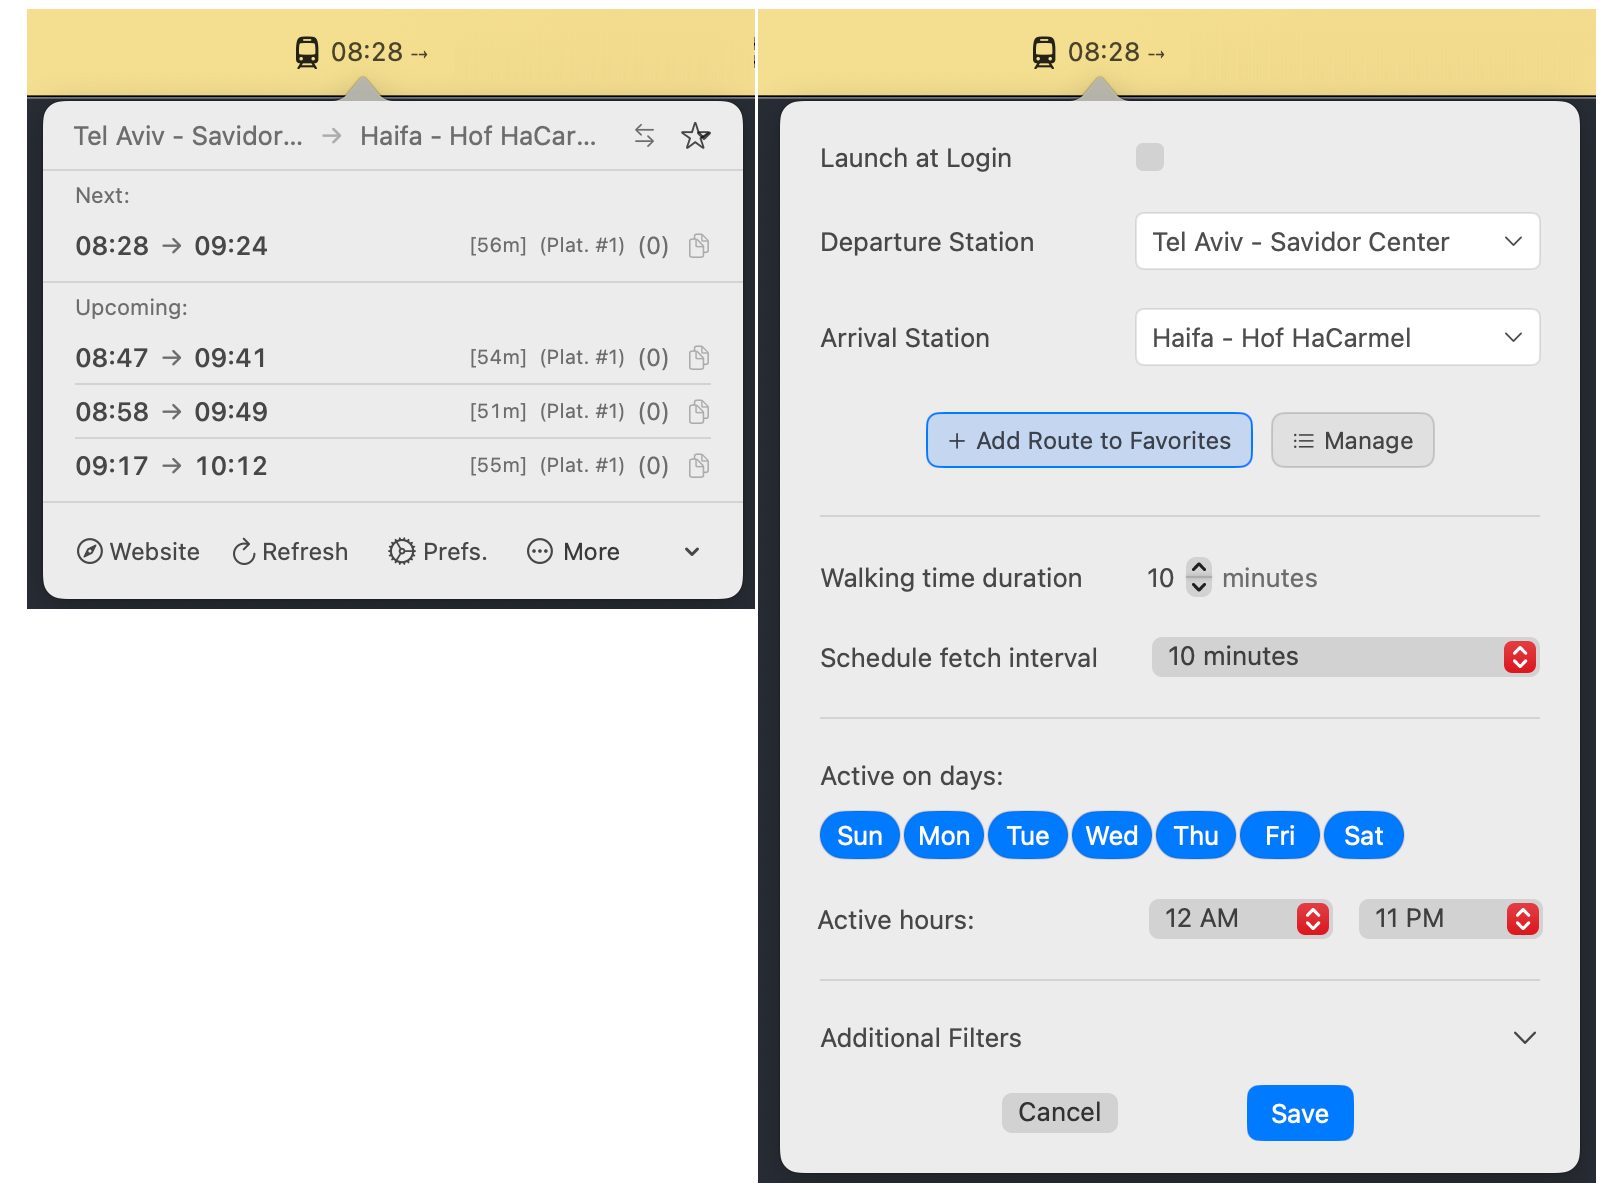
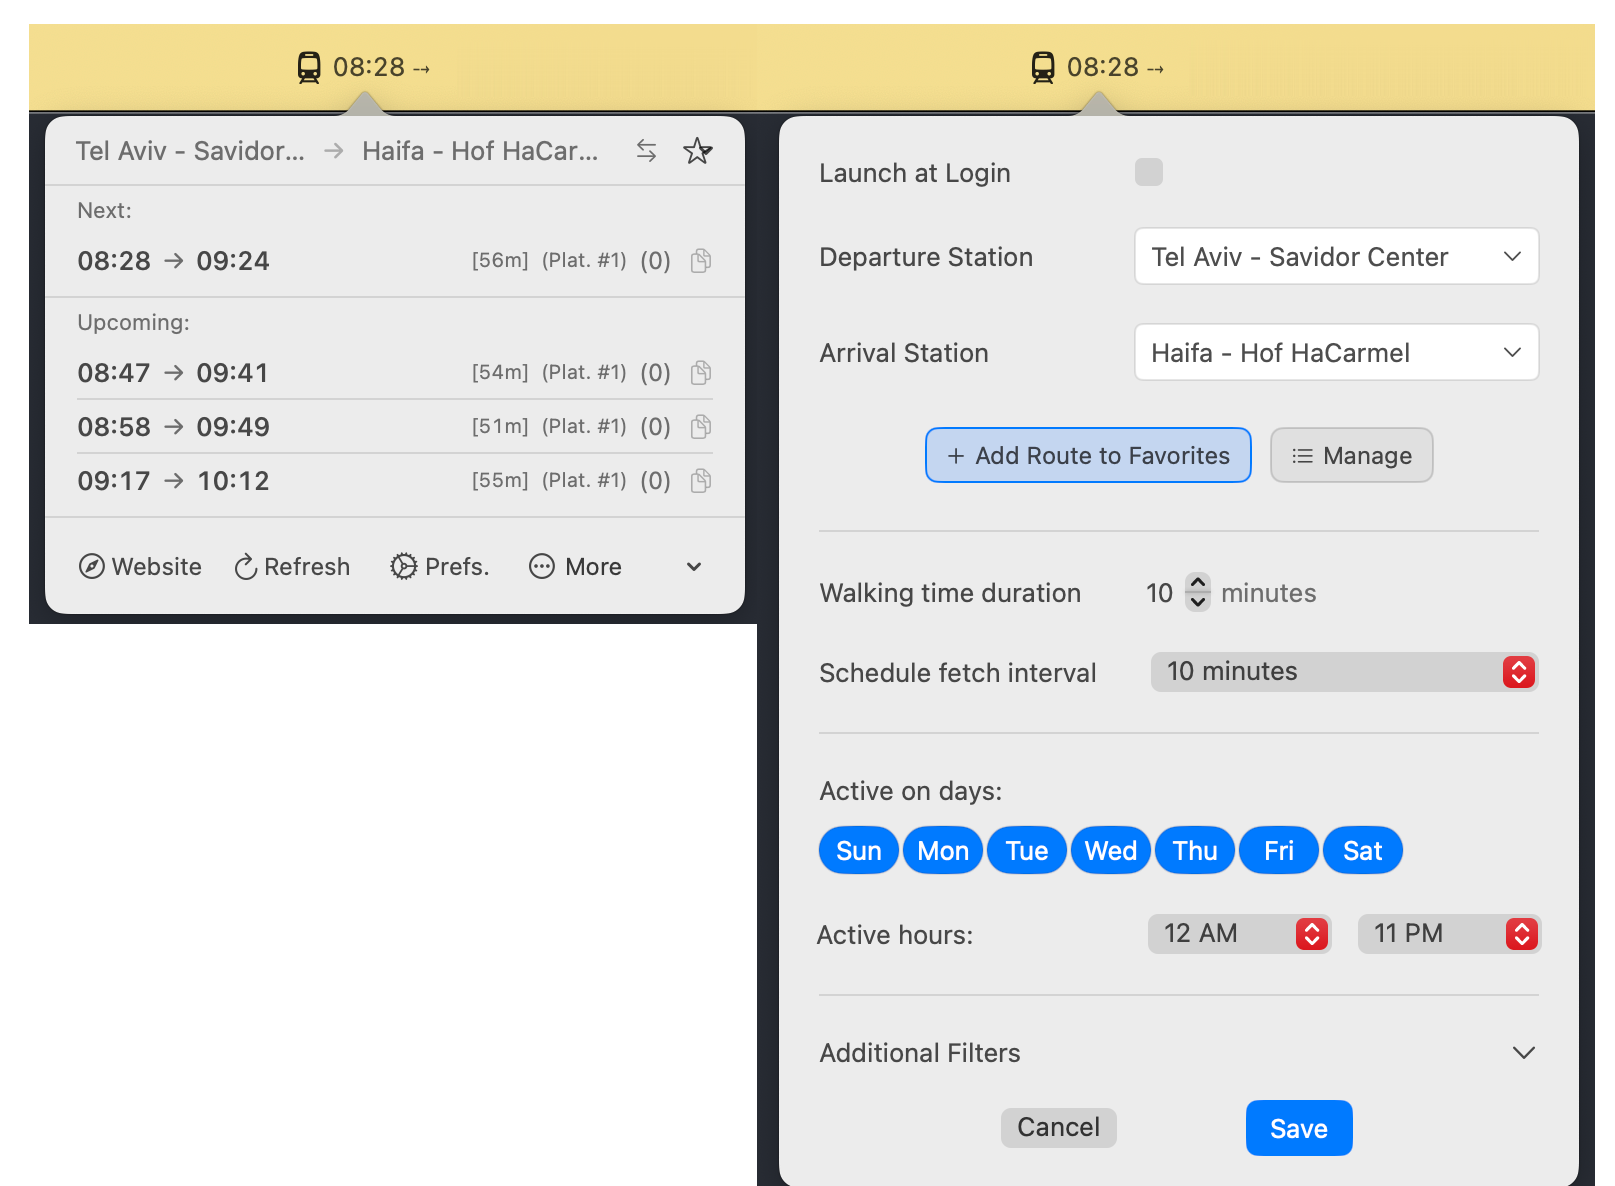
fix: platform display (#21)

diff --git a/ILrail-bar/NetworkManager.swift b/ILrail-bar/NetworkManager.swift
@@ -200,8 +200,11 @@ class NetworkManager {
                     if let firstTrainData = travel.trains.first {
                         let trainNumberString = String(describing: firstTrainData.trainNumber)
                         let allTrainNumbers = travel.trains.map { String(describing: $0.trainNumber) }
-                        let allPlatforms = travel.trains.compactMap { $0.platform }
-                        
+
+                        // For the platforms list, always use originPlatform values for consistent display
+                        let allPlatforms = travel.trains.map { String($0.originPlatform) }
+                        let platformToShow = String(firstTrainData.originPlatform)
+
                         // We want to show the first train of each travel, with the overall journey time
                         // Instead of checking that both stations match, we'll check the overall journey details
                         // This handles train changes correctly
@@ -209,7 +212,7 @@ class NetworkManager {
                             trainNumber: trainNumberString,
                             departureTime: firstTrainData.departureTime,
                             arrivalTime: travel.trains.last?.arrivalTime ?? firstTrainData.arrivalTime, // Use the final arrival time for the complete journey
-                            platform: firstTrainData.platform ?? "",
+                            platform: platformToShow,
                             fromStationName: firstTrainData.fromStationName ?? preferences.fromStation,
                             toStationName: travel.trains.last?.toStationName ?? firstTrainData.toStationName ?? preferences.toStation,
                             trainChanges: trainChanges,

diff --git a/CHANGELOG.md b/CHANGELOG.md
@@ -12,6 +12,11 @@ BUMP:minor - Increases the minor version (0.x.0)
 BUMP:major - Increases the major version (x.0.0)
 -->
 
+<!-- BUMP:patch -->
+## v2.6.1 - 2025-05-06
+### Fixed
+- Fixed platform display to always use `originPlatform`
+
 <!-- BUMP:minor -->
 ## v2.6.0 - 2025-05-04
 ### Added
